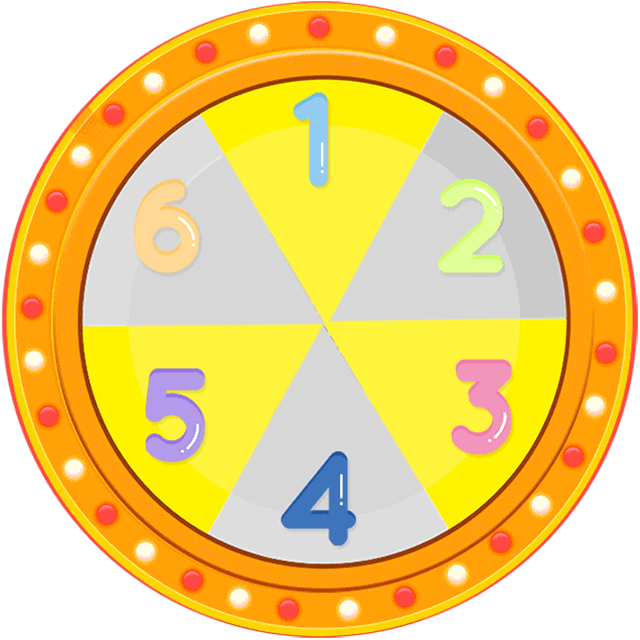
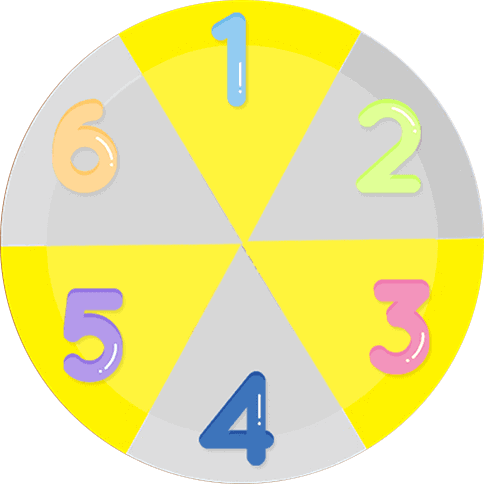
change wheel

diff --git a/public/client/js/game.js b/public/client/js/game.js
@@ -1114,7 +1114,7 @@ DomeWebController = {
             'wheelImg': "/client/images/wheel.png",//转轮图片
             'pointerImg': "/client/images/pointer.png",//指针图片
             'buttonImg': "/client/images/button.png",//开始按钮图片
-            'wSide': 260,//转轮边长(默认使用图片宽度)
+            'wSide': 200,//转轮边长(默认使用图片宽度)
             'pSide': 100,//指针边长(默认使用图片宽度)
             'bSide': 50,//按钮边长(默认使用图片宽度)
             'items': {1: [360, 360], 2: [60, 60], 3: [120, 120], 4: [180, 180], 5: [240, 240], 6: [300, 300]},//奖品角度配置{键:[开始角度,结束角度],键:[开始角度,结束角度],......}

diff --git a/public/client/css/game.css b/public/client/css/game.css
@@ -1298,12 +1298,11 @@ body{
 #wheel_container {
     margin: 0 auto;
     width: 100%;
-    top: 12px;
+    top: 42px;
 }
 
 #wheel_banner {
 	margin: 0 auto;
-    width: 100%;
 	width: 260px;
 }
 
@@ -1314,8 +1313,9 @@ body{
 	margin-left: auto;
 	margin-right: auto;
 	z-index: 100; 
-	width:200px;
-	height:69px;
+	width:260px;
+	height:260px;
+	margin-top: 11px;
 }
 
 #txtCounter {
